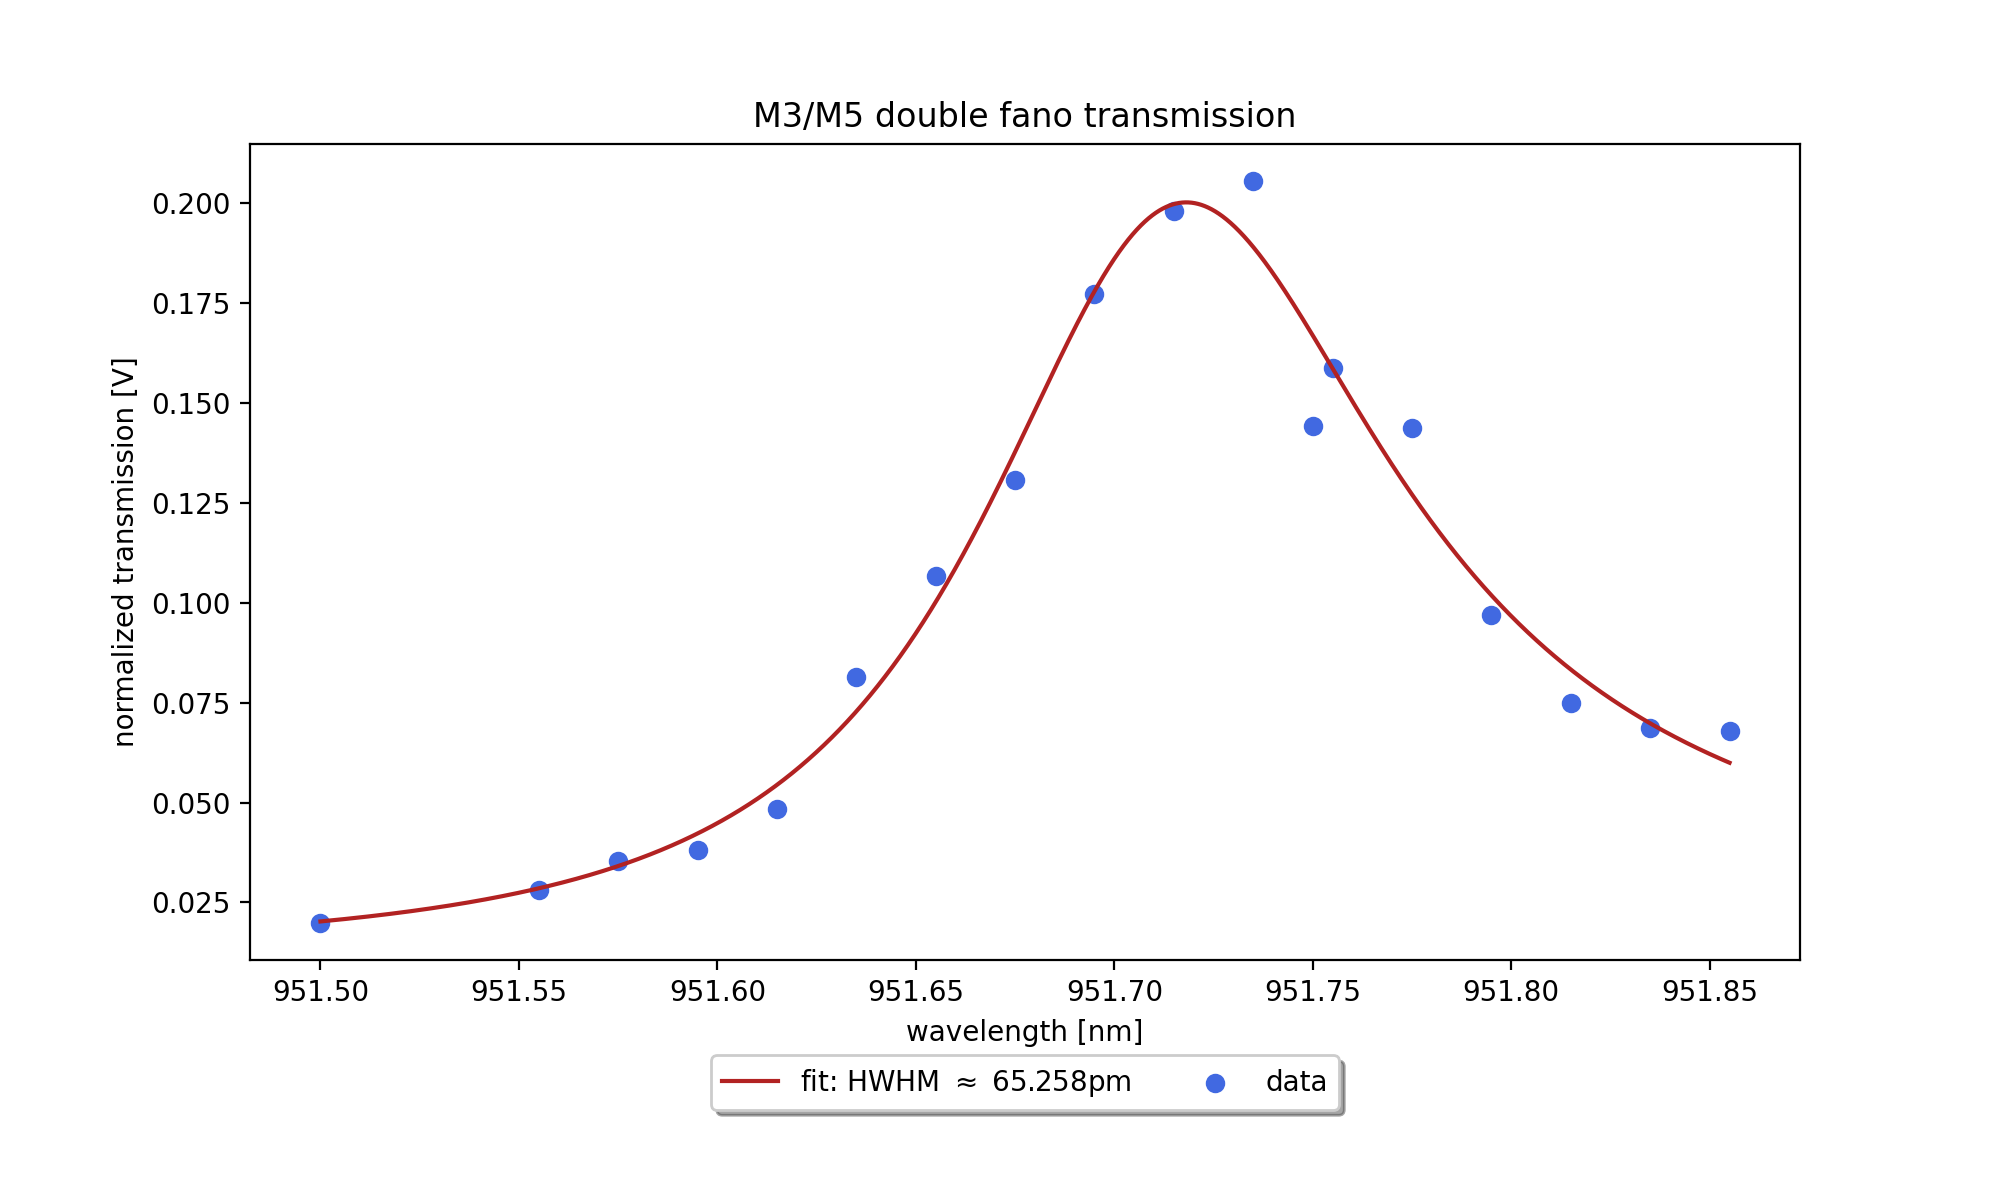
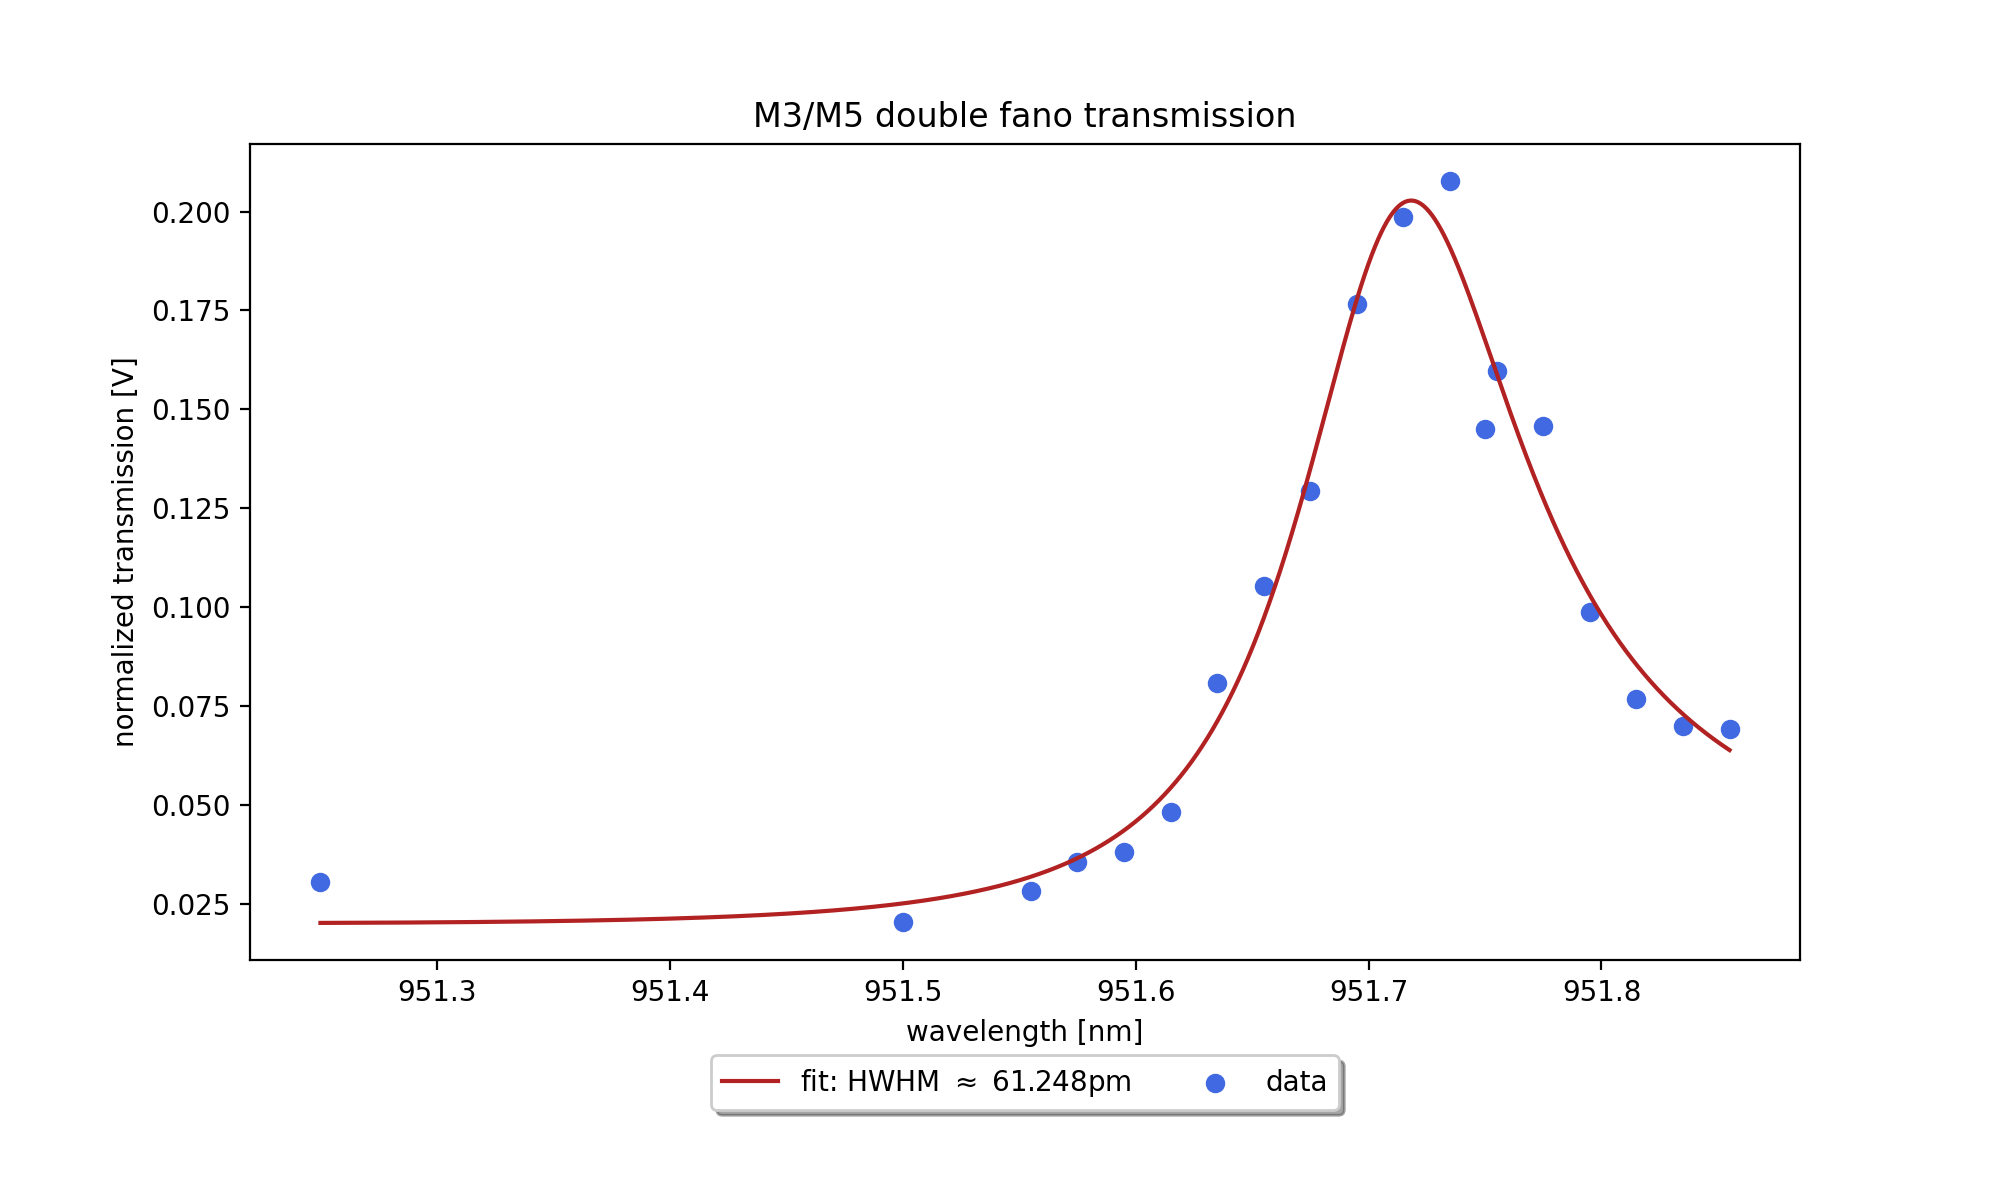
-

diff --git a/cavity_linewidth.py b/cavity_linewidth.py
@@ -49,24 +49,26 @@ M5 = fano("/Users/mikkelodeon/optomechanics/400um gratings/Data/M5/400_M5 trans.
 λ0_1, λ1_1, td_1, γ_1, α_1 = M3.lossy_fit([952,952,0.6,1,0.1])
 λ0_2, λ1_2, td_2, γ_2, α_2 = M5.lossy_fit([952,952,0.6,1,0.1])
 
-#print(λ0_1-λ1_1)
-#print(λ0_2-λ1_2)
-λ0_1 = 951.535 #551.535
-λ1_1 = 951.535 + 0.14
-λ0_2 = 951.875
-λ1_2 = 951.875 + 0.15
+λ_asymmetry_1 = λ1_1-λ0_1
+λ_asymmetry_2 = λ1_2-λ0_2
+#print(λ_asymmetry_1, λ_asymmetry_2)
+λ0_1 = 951.535 
+λ1_1 = 951.535 + λ_asymmetry_1
+λ0_2 = 951.880
+λ1_2 = 951.880 + λ_asymmetry_2
 
 λs = np.linspace(M3.data[:,0][0], M3.data[:,0][-1], 1000)
 
 M3_params = [λ0_1, λ1_1, td_1, γ_1, α_1]
 M5_params = [λ0_2, λ1_2, td_2, γ_2, α_2]
 
-rs_M3 = theoretical_reflection_values(M3_params, losses=True, loss_factor=0.03)[0]
-rs_M5 = theoretical_reflection_values(M5_params, losses=True, loss_factor=0.03)[0]
+
+rs_M3 = theoretical_reflection_values(M3_params, losses=True, loss_factor=0.05)[0]
+rs_M5 = theoretical_reflection_values(M5_params, losses=True, loss_factor=0.05)[0]
 ts_M3 = model(λs, *M3_params)
 ts_M5 = model(λs, *M5_params)
 
-idx = int((list(rs_M3).index(np.max(rs_M3)) + list(rs_M5).index(np.max(rs_M5)))/2)
+idx = int((list(ts_M3).index(np.min(ts_M3)) + list(ts_M5).index(np.min(ts_M5)))/2)
 #idx = int(list(rs_M3).index(np.max(rs_M3)))
 #idx = int(list(rs_M5).index(np.max(rs_M5)))
 
@@ -74,12 +76,12 @@ rt_M3 = rs_M3[idx]
 rt_M5 = rs_M5[idx]
 tt_M3 = ts_M3[idx]
 tt_M5 = ts_M5[idx]
-print(rt_M3)
-print(rt_M5)
-print(tt_M3)
-print(tt_M5)
+print("ref. of M3 at trans. wavelength:   ", rt_M3[0])
+print("ref. of M5 at trans. wavelength:   ", rt_M5[0])
+print("trans. of M3 at trans. wavelength: ", tt_M3)
+print("trans. of M5 at trans. wavelength: ", tt_M5)
 
-print(idx)
+#print(idx)
 
 ## resonance wavelength [nm -> m]
 λres = (λ0_1*1e-9 + λ0_2*1e-9)/2 #955.572e-9
@@ -87,32 +89,30 @@ print(idx)
 l = np.linspace(10,300,10000)*1e-6
 ## losses in cavity
 #L = 0.15
-L = (1- rt_M3 - tt_M3) + (1 - rt_M5 - tt_M5)
-print("L: ",L)
+L = (1 - rt_M3 - tt_M3) + (1 - rt_M5 - tt_M5)
+print("cavity losses at trans. wavelength:", L[0])
 ## width of guided mode resonance [nm -> m]
 γλ = (γ_1*1e-9 + γ_2*1e-9)/2#0.485*1e-9
 ## direct (off-resonance) reflectivity (from norm. trans/ref fit)
-rd = np.sqrt(((0.57+0.575)/2))#np.sqrt(0.576)
+rd = np.sqrt(0.57)*np.sqrt(0.575)#np.sqrt(((0.57+0.575)/2))#np.sqrt(0.576)
 #print(rd)
 ## Grating transmission at resonance
 Tg = tt_M3#0.049
 ## Broadband mirror transmission at resonance
 Tm = tt_M5#0.049
 
-print(Tg, Tm)
-
 def lw_mirror(l: int, λres: float, L: float, Tg: float, Tm: float): 
     δγc = (λres**2/(8*np.pi*l)) * (Tg + Tm + L) 
     return δγc
 
 def lw_fano(l: int, λres: float, L: float, γλ: float, rd: float, Tg: float, Tm: float): 
-    δγc = (λres**2)/(8*np.pi*l) * (Tg + Tm + L) 
-    δγg = (γλ/(2*(1-rd))) * (Tg + Tm + L) 
+    δγc = ((λres**2)/(8*np.pi*l)) * (Tg + Tm + L) 
+    δγg = ((γλ/(2*(1-rd)))) * (Tg + Tm + L) 
     δγ = 1/((1/δγc) + (1/δγg)) 
     return δγ 
 
 def double_fano(l: int, λres: float, L: float, γλ: float, rd: float, Tg: float, Tm: float):
-    δγc = (λres**2)/(8*np.pi*l) * (Tg + Tm + L) 
+    δγc = ((λres**2)/(8*np.pi*l)) * (Tg + Tm + L) 
     δγg = (γλ/(2*(1-rd))) * (Tg + Tm + L) * 0.5
     δγ = 1/((1/δγc) + (1/δγg)) 
     return δγ 
@@ -128,17 +128,24 @@ def double_fano(l: int, λres: float, L: float, γλ: float, rd: float, Tg: floa
 #lws = np.array([291.28,173.5,187.6,180.4,129.2,96.63])*1e-12*0.5 # linewidths in pm
 
 lengths = np.array([21, 34, 43, 59, 129, 238])*1e-6
-lws = np.array([148.169, 86.019, 96.282, 86.945, 65.258, 49.974])*1e-12
+lws = np.array([148.169, 77.852, 96.458, 90.403, 61.248, 48.223])*1e-12
+lw_errs = np.array([10.160799928638458, 6.134863876528573, 24.388186270739908, 7.375280567851888, 5.511886232010013, 5.047405715383159])*1e-12
+
+sim_lws = np.array([80.911, 75.736, 72.39, 67.117, 50.241, 35.681])*1e-12
+sim_lw_errs = np.array([0.0005121934467886775, 0.0004377799130283023, 0.0003946381293104754, 0.0003333141561310218, 0.00017926167187670345, 8.649780122407183e-05])*1e-12
+
+### NOTE: all errors are found as errors of the fit only! ###
 
 plt.figure(figsize=(10,6))
 
-plt.plot(l*1e6,lw_mirror(l,λres,0.08,0.049,0.049)*1e12, label="broadband cavity")
-plt.plot(l*1e6, double_fano(l,λres,0.08,γλ,rd,0.049,0.049)*1e12, label="symmetric double fano")
-plt.plot(l*1e6,lw_fano(l,λres,0.08,γλ,rd,0.049,0.049)*1e12, label="ideal single fano cavity")
-plt.plot(l*1e6,double_fano(l,λres,L,γλ,rd,Tg,Tm)*1e12, label="asymmetric double fano cavity")
-plt.plot(lengths*1e6,lws*1e12, "ro", label="measured linewidths (double fano)")
-#plt.plot(λs, rs_M3)
-#plt.plot(λs, rs_M5)
+plt.plot(l*1e6,lw_mirror(l,λres,L,Tg,Tm)*1e12, label="broadband cavity")
+#plt.plot(l*1e6, double_fano(l,λres,L,γλ,rd,Tg,Tm)*1e12, label="symmetric double fano")
+plt.plot(l*1e6,lw_fano(l,λres,L,γλ,rd,Tg,Tm)*1e12, label="single fano cavity")
+plt.plot(l*1e6,double_fano(l,λres,L,γλ,rd,Tg,Tm)*1e12, label="double fano cavity")
+plt.errorbar(lengths*1e6,lws*1e12, lw_errs*1e12, fmt=".", capsize=3, color="cornflowerblue", label="HWHM (measured)")
+plt.errorbar(lengths*1e6, sim_lws*1e12, sim_lw_errs*1e12, fmt=".", capsize=3, color="firebrick", label="HWHM (simulated)")
+#plt.plot(λs, rs_M3, "ro")
+#plt.plot(λs, rs_M5, "bo")
 plt.title("HWHM as a function of cavity length")
 plt.xlabel("Cavity length [μm]")
 plt.ylabel("HWHM [pm]")

diff --git a/fano_theory.py b/fano_theory.py
@@ -18,11 +18,11 @@ params2 = M5.lossy_fit([952,952,0.6,1,0.1])
 
 #params3 = M7.lossy_fit([952,952,0.6,1,0.1])
 
-#params1[0] = 951.7
-#params1[1] = 951.560
+params1[0] = 951.535
+params1[1] = 951.535 + 0.14
 
-#params2[0] = 951.7
-#params2[1] = 951.830
+params2[0] = 951.880
+params2[1] = 951.880 + 0.15
 
 ## grating parameters -> [λ0, λ1, td, γλ, α]
 # λ0 -> resonance wavelength
@@ -43,7 +43,7 @@ data[:,1] = [(d/pi)/(n/pi_) for d,pi,n,pi_ in zip(data[:,1], PI_data[:,1], norm[
 
 #λs = np.linspace(951, 952.5, 500)
 #λs = np.linspace(951.65, 951.95, 500)
-λs = np.linspace(data[:,0][0], data[:,0][-1], 1000)
+λs = np.linspace(data[:,0][14:-17][0], data[:,0][14:-17][-1], 100)
 #λs = np.linspace(910, 980, 10000)
 #λs = np.linspace(951.68, 951.90, 200)
 
@@ -54,6 +54,11 @@ def model(λ, λ0, λ1, td, γλ, β):
     γ = 2*np.pi / λ1**2 * γλ
     t = td * (k - k0 + 1j * β) / (k - k1 + 1j * γ)
     return np.abs(t)**2
+
+def fit_model(λ, a, b, c, λ0, δλ): 
+    γ = 1 - c*((λ-λ0)/δλ)
+    t = (a/(1 + ((λ-λ0)/(δλ*γ))**2)) + b
+    return t
 
 def theoretical_reflection_values(params: list, losses=True, loss_factor=0.03):
     λ0s, λ1s, tds, γλs, βs = params
@@ -395,7 +400,7 @@ def fano_cavity_transmission_plot(params: list, length: np.array, λs: np.array,
     plt.ylabel("Intensity [arb.u.]")
     plt.show()
 
-def dual_fano_transmission(params1: list, params2: list, length: float, λs: np.array, intracavity=False, losses=True, loss_factor=0.03):
+def dual_fano_transmission(params1: list, params2: list, length: float, λs: np.array, intracavity=False, losses=True, loss_factor=0.05):
     #print("double fano length: ", length)
     
     reflection_values1 = theoretical_reflection_values(params1, losses=losses, loss_factor=loss_factor)[1]
@@ -843,22 +848,38 @@ def linewidth_length_plot(params1: list, params2: list, λs: np.array, intracavi
 #length = double_cavity_length(params2, params1, λs, lmin=lmin)
 #double_fano_phase_plot(params1, params2, length, λs)
 
-lmin=34
-length_M3 = (double_cavity_length(params1, params2, λs, lmin=lmin))
-Ts_M3 = dual_fano_transmission(params1, params2, length_M3, λs, loss_factor=0.05)
+#lmin=34
+#length_M3 = (double_cavity_length(params1, params2, λs, lmin=lmin))
+#Ts_M3 = dual_fano_transmission(params1, params2, length_M3, λs, loss_factor=0.05)
 
-length_M5 = double_cavity_length(params2, params1, λs, lmin=lmin)
-Ts_M5 = dual_fano_transmission(params1, params2, length_M5, λs, loss_factor=0.05)
+#length_M5 = double_cavity_length(params2, params1, λs, lmin=lmin)
+#Ts_M5 = dual_fano_transmission(params1, params2, length_M5, λs, loss_factor=0.05)
 
-length_mid = (double_cavity_length(params1, params2, λs, lmin=lmin)*0.5 + double_cavity_length(params2, params1, λs, lmin=lmin)*0.5)
-Ts_mid = dual_fano_transmission(params1, params2, length_mid, λs, loss_factor=0.05)
+#length_mid = (double_cavity_length(params1, params2, λs, lmin=lmin)*0.5 + double_cavity_length(params2, params1, λs, lmin=lmin)*0.5)
+#Ts_mid = dual_fano_transmission(params1, params2, length_mid, λs, loss_factor=0.05)
+
+lmin = 235
+length = (double_cavity_length(params1, params2, λs, lmin=lmin)*0.5 + double_cavity_length(params2, params1, λs, lmin=lmin)*0.5)
+Ts = dual_fano_transmission(params1, params2, length, λs, loss_factor=0.05)
+
+p0 = [0, 0, 0, 951.7, 100e-3]
+#p0 = [951.7,951.7,0.6,0.1,1e-6]
+
+popt, pcov = curve_fit(fit_model, λs, Ts, p0=p0, maxfev=10000)
+err = np.sqrt(np.diag(pcov))
+lw_err = err[4]
+print("lw error: ", lw_err)
+
+xs = np.linspace(λs[0], λs[-1], 1000)
 
 plt.figure(figsize=(10,6))
-plt.plot(λs, Ts_M3, color="tomato", linestyle="-.", label="theory, $l = l_{M3}$")
-plt.plot(λs, Ts_M5, color="seagreen", linestyle="-.", label="theory, $l = l_{M5}$")
-plt.plot(λs, Ts_mid, color="royalblue", linestyle="--", label="theory, $l = (l_{M3} + l_{M5})/2$")
-plt.scatter(data[:,0], data[:,1], marker='.', color="maroon", label="data", zorder=4)
-plt.title("M3/M5 double fano transmission $(l \\approx 34μm)$") 
+plt.scatter(λs, Ts, color="royalblue", label="theory")
+plt.plot(xs, fit_model(xs, *popt), color="cornflowerblue", label="fit: HWHM $\\approx$ %spm" % (round(popt[4]*1e3,3)))
+#plt.plot(λs, Ts_M3, color="tomato", linestyle="-.", label="theory, $l = l_{M3}$")
+#plt.plot(λs, Ts_M5, color="seagreen", linestyle="-.", label="theory, $l = l_{M5}$")
+#plt.plot(λs, Ts_mid, color="royalblue", linestyle="--", label="theory, $l = (l_{M3} + l_{M5})/2$")
+#plt.scatter(data[:,0], data[:,1], marker='.', color="maroon", label="data", zorder=4)
+plt.title("M3/M5 double fano transmission $(l \\approx 21μm)$") 
 plt.xlabel("wavelength [nm]")
 plt.ylabel("normalized transmission [V]")
 plt.legend(bbox_to_anchor=(1.04, 1), loc="upper left")

diff --git a/fano_fit.py b/fano_fit.py
@@ -6,13 +6,15 @@ from scipy.optimize import fsolve
 
 ### Load data from .txt file
 
-data = np.loadtxt("/Users/mikkelodeon/optomechanics/Double fano cavity/M3+M5/data/20250211/34um/34l.txt")[14:-17]
-PI_data = np.loadtxt("/Users/mikkelodeon/optomechanics/Double fano cavity/M3+M5/data/20250211/34um/34l_PI.txt")[14:-17]
-norm = np.loadtxt("/Users/mikkelodeon/optomechanics/Double fano cavity/M3+M5/data/20250211/normalization/long_scan.txt")[14:-17]
-norm_PI = np.loadtxt("/Users/mikkelodeon/optomechanics/Double fano cavity/M3+M5/data/20250211/normalization/long_scan_PI.txt")[14:-17]
-PI_0 = PI_data[0,1]
-data[:,1] = [dat/(PI/PI_0) for dat,PI in zip(data[:,1], PI_data[:,1])]  ##  correcting for any fluctuations in laser power over time
-norm[:,1] = [N/(PI/PI_0) for N,PI in zip(norm[:,1], norm_PI[:,1])]      ##  from the main measurement to the normalization measurement.  
+data = np.loadtxt("/Users/mikkelodeon/optomechanics/Double fano cavity/M3+M5/data/20250207/238um/238l.txt")[13:-20]
+PI_data = np.loadtxt("/Users/mikkelodeon/optomechanics/Double fano cavity/M3+M5/data/20250207/238um/238l_PI.txt")[13:-20]
+norm = np.loadtxt("/Users/mikkelodeon/optomechanics/Double fano cavity/M3+M5/data/20250207/normalization/long_scan.txt")[13:-20]
+norm_PI = np.loadtxt("/Users/mikkelodeon/optomechanics/Double fano cavity/M3+M5/data/20250207/normalization/long_scan_PI.txt")[13:-20]
+
+#PI_0 = PI_data[0,1]
+#PI_0_norm = norm[0,1]
+#data[:,1] = [dat/(PI/PI_0) for dat,PI in zip(data[:,1], PI_data[:,1])]  ##  correcting for any fluctuations in laser power over time
+#norm[:,1] = [N/(PI/PI_0_norm) for N,PI in zip(norm[:,1], norm_PI[:,1])]      ##  from the main measurement to the normalization measurement.  
 
 data[:,1] = [(d/pi)/(n/pi_) for d,pi,n,pi_ in zip(data[:,1], PI_data[:,1], norm[:,1], norm_PI[:,1])] ## norm. with respect to trans. w/o a cavity. 
 
@@ -23,11 +25,11 @@ M5 = fano("/Users/mikkelodeon/optomechanics/400um gratings/Data/M5/400_M5 trans.
 λ0_1, λ1_1, td_1, γ_1, α_1 = M3.lossy_fit([952,952,0.6,1,0.1])
 λ0_2, λ1_2, td_2, γ_2, α_2 = M5.lossy_fit([952,952,0.6,1,0.1])
 
-λ0_1 = 951.7
-λ1_1 = 951.56
+λ0_1 = 951.535
+λ1_1 = 951.535 + 0.14
 
-λ0_2 = 951.7
-λ1_2 = 951.83
+λ0_2 = 951.875
+λ1_2 = 951.875 + 0.15
 
 ### Defining the grating transmission function/model
 
@@ -108,11 +110,14 @@ def double_fano(λs , λ0_1, λ1_1, td_1, γ_1, α_1, λ0_2, λ1_2, td_2, γ_2, 
 
 #p0 = [λ0_1, λ1_1, td_1, γ_1, α_1, λ0_2, λ1_2, td_2, γ_2, α_2, 30e3, 0.05]
 #p0 = [951.7,951.7,0.8,0.01,1e-5,0.04]
-p0 = [0, 0.1, 0, 951.72, 100e-3]
+p0 = [1, 0.1, 0, 951.7, 100e-3]
+bounds = [[0, 0, -np.inf, 0, 0],[np.inf, np.inf, np.inf, np.inf, np.inf]]
 
 #popt,pcov = curve_fit(double_fano, data[:,0], data[:,1], p0=p0, maxfev=10000000)
-popt,pcov = curve_fit(fit_model, data[:,0], data[:,1], p0=p0, maxfev=100000)
+popt,pcov = curve_fit(fit_model, data[:,0], data[:,1], p0=p0, bounds=bounds, maxfev=100000)
 #fit_params = [popt[0], popt[1], popt[5], popt[6], popt[10]*1e-3]
+lw_err = np.sqrt(np.diag(pcov))[4]*1e3
+print("lw error: ", lw_err)
 print("popt:",popt)
 print("p0 =", p0)
 

diff --git a/fano_data_plot.py b/fano_data_plot.py
@@ -20,7 +20,7 @@ print(popt)
 
 xs = np.linspace(data[:,0][0], data[:,0][-1], 10000)
 
-plt.figure(figsize=(10,6))
+#plt.figure(figsize=(10,6))
 plt.scatter(data[:,0], data[:,1], color="royalblue", label="data")
 plt.plot(xs, fabry_perot(xs, *popt), color="firebrick", label="fit")
 plt.title("double fano transmission at ~565μm (M3 + M5)") 
